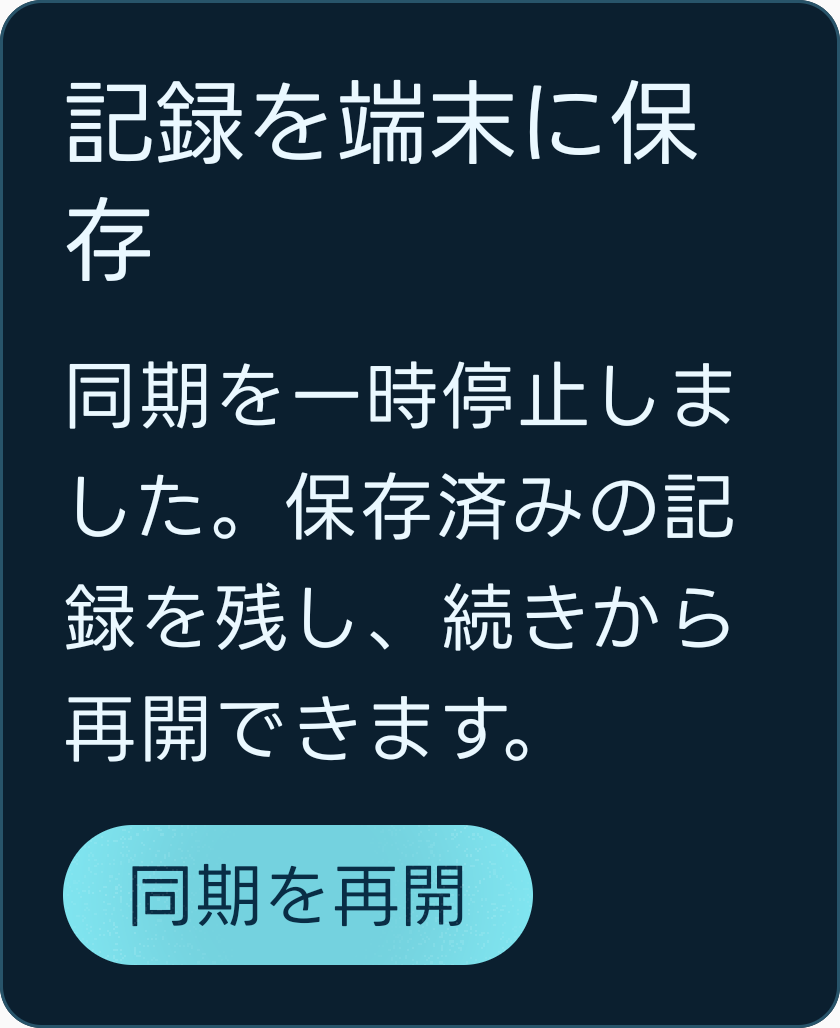
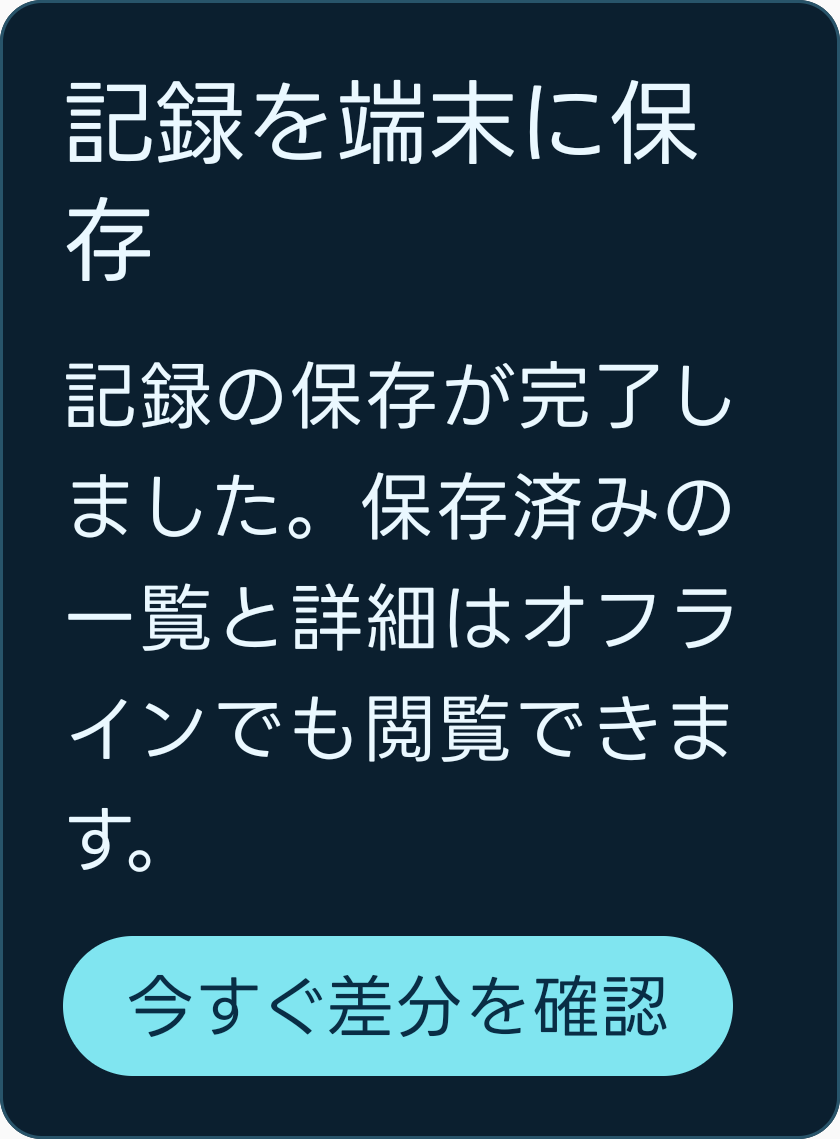
feat(android): render local records first and document automatic sync

diff --git a/apps/records-android/app/src/main/java/dev/pitekusu/shittim/records/BootstrapPresenter.kt b/apps/records-android/app/src/main/java/dev/pitekusu/shittim/records/BootstrapPresenter.kt
@@ -9,13 +9,9 @@ import androidx.compose.runtime.collectAsState
 import androidx.compose.runtime.getValue
 import androidx.compose.runtime.mutableStateOf
 import androidx.compose.runtime.remember
-import androidx.compose.runtime.rememberCoroutineScope
 import androidx.compose.runtime.saveable.rememberSaveable
 import androidx.compose.runtime.setValue
 import androidx.compose.ui.platform.LocalContext
-import androidx.lifecycle.compose.LifecycleStartEffect
-import androidx.paging.Pager
-import androidx.paging.PagingConfig
 import androidx.paging.PagingData
 import com.slack.circuit.runtime.CircuitUiEvent
 import com.slack.circuit.runtime.CircuitUiState
@@ -29,13 +25,7 @@ import dev.pitekusu.shittim.records.auth.MobileSessionModel
 import dev.pitekusu.shittim.records.auth.MobileSessionUser
 import dev.pitekusu.shittim.records.auth.SessionState
 import dev.zacsweers.metro.Inject
-import java.util.concurrent.ConcurrentHashMap
-import kotlin.coroutines.cancellation.CancellationException
-import kotlinx.coroutines.launch
-import kotlinx.coroutines.flow.Flow
-import kotlinx.coroutines.flow.flow
 import kotlinx.coroutines.flow.flowOf
-import kotlinx.coroutines.flow.emitAll
 
 internal enum class ThemeChoice {
   System,
@@ -65,7 +55,6 @@ internal data object BootstrapScreen : Screen {
     data object RefreshRecords : Event
     data object RecordsAuthRequired : Event
     data object StartSync : Event
-    data object PauseSync : Event
     data class OpenRecord(val recordId: String) : Event
     data object CloseRecord : Event
   }
@@ -104,46 +93,19 @@ internal class BootstrapPresenter(
     var listOwner by remember { mutableStateOf<MobileSessionUser?>(null) }
     var lastListRetry by remember { mutableStateOf(-1) }
     var syncState by remember { mutableStateOf<RecordSyncState>(RecordSyncState.Idle) }
-    var syncRequest by remember { mutableStateOf<SessionState.SignedIn?>(null) }
-    val syncScope = rememberCoroutineScope()
-    LaunchedEffect(sessionState) {
-      if (syncRequest != null && syncRequest !== sessionState) {
-        syncRequest = null
-        syncState = RecordSyncState.Paused
-      }
-      if (sessionState !is SessionState.SignedIn) syncState = RecordSyncState.Idle
+    LaunchedEffect(cacheAccountId, signedIn) {
+      if (cacheAccountId != null && signedIn) RecordSyncScheduler.schedule(context)
     }
-    // Lifecycle cancels directly at STOP, even when the stopped UI cannot recompose.
-    LifecycleStartEffect(syncRequest) {
-      val request = syncRequest
-      val job = request?.let {
-        syncScope.launch {
-          try {
-            val completed = session.withAuthorizedToken { token ->
-              records?.synchronize(token, request.cacheAccountId)
-                ?: throw RecordReadException(RecordReadFailure.STORAGE_UNAVAILABLE)
-              true
-            }
-            if (syncRequest === request && session.state.value === request) {
-              syncRequest = null
-              syncState = if (completed == true) RecordSyncState.Completed else RecordSyncState.Paused
-              if (completed == true) listRetry++
-            }
-          } catch (error: CancellationException) { throw error }
-          catch (error: RecordReadException) {
-            if (syncRequest === request && session.state.value === request) {
-              syncRequest = null
-              syncState = RecordSyncState.Failed(error.failure)
-              if (error.failure == RecordReadFailure.AUTH_REQUIRED) session.onForeground()
-            }
+    LaunchedEffect(cacheAccountId) {
+      syncState = RecordSyncState.Idle
+      if (cacheAccountId != null) {
+        var updatedAt = 0L
+        RecordSyncScheduler.states(context).collect { status ->
+          syncState = status.state
+          if (status.updatedAt > updatedAt) { updatedAt = status.updatedAt; listRetry++ }
+          if ((status.state as? RecordSyncState.Failed)?.reason == RecordReadFailure.AUTH_REQUIRED) {
+            session.onForeground()
           }
-        }
-      }
-      onStopOrDispose {
-        job?.cancel()
-        if (request != null && syncRequest === request) {
-          syncRequest = null
-          syncState = RecordSyncState.Paused
         }
       }
     }
@@ -167,45 +129,19 @@ internal class BootstrapPresenter(
           }
           listOwner = currentSession.user
           lastListRetry = listRetry
-          val loadedIds = ConcurrentHashMap.newKeySet<String>()
-          val saved = try { records?.cachedRecords(cacheAccountId).orEmpty() }
+          val saved = try { records?.cachedRecords(cacheAccountId)
+            ?: throw RecordReadException(RecordReadFailure.STORAGE_UNAVAILABLE) }
           catch (error: RecordReadException) {
             if (error.failure == RecordReadFailure.AUTH_REQUIRED) return@LaunchedEffect
-            emptyList()
+            recordList = RecordListState.Error(error.failure)
+            return@LaunchedEffect
           }
-          loadedIds.addAll(saved.map { it.recordId })
-          var source: Flow<PagingData<RecordListEntry>>? = null
-          val pages = Pager(PagingConfig(pageSize = 12, initialLoadSize = 12,
-            prefetchDistance = 3, enablePlaceholders = false)) {
-            RecordPagingSource(
-              loadPage = { cursor ->
-                try {
-                  val page = session.withAuthorizedToken { token ->
-                    records?.recentRecords(token, currentSession.cacheAccountId, cursor)
-                      ?: throw RecordReadException(RecordReadFailure.STORAGE_UNAVAILABLE)
-                  } ?: throw RecordReadException(RecordReadFailure.AUTH_REQUIRED)
-                  if (cursor == null && listOwner === currentSession.user) {
-                    recordList = RecordListState.Ready(checkNotNull(source), loadedIds)
-                  }
-                  page
-                } catch (error: RecordReadException) {
-                  if (cursor != null || error.failure !in setOf(RecordReadFailure.UNAVAILABLE,
-                    RecordReadFailure.STORAGE_UNAVAILABLE)) throw error
-                  val cached = records?.cachedRecords(cacheAccountId)
-                    ?: throw RecordReadException(RecordReadFailure.STORAGE_UNAVAILABLE)
-                  if (listOwner === currentSession.user) recordList = RecordListState.Ready(
-                    checkNotNull(source), loadedIds, saved = true, refreshFailure = error.failure)
-                  RecordListPage(cached, null)
-                }
-              },
-              onLoaded = { entries -> loadedIds.addAll(entries.map { it.recordId }) },
-            )
-          }
-          source = flow {
-            if (saved.isNotEmpty()) emit(PagingData.from(saved))
-            emitAll(pages.flow)
-          }
-          recordList = RecordListState.Ready(source, loadedIds, saved = saved.isNotEmpty())
+          // No online paging/detail refresh on ordinary navigation: the worker alone
+          // reconciles revisions, while the UI reads decrypted local data immediately.
+          recordList = if (saved.isEmpty() && syncState is RecordSyncState.Failed) {
+            RecordListState.Error((syncState as RecordSyncState.Failed).reason)
+          } else if (saved.isEmpty() && syncState != RecordSyncState.Completed) RecordListState.Idle
+          else RecordListState.Ready(flowOf(PagingData.from(saved)), saved.map { it.recordId }.toSet(), saved = true)
         }
         SessionState.Unavailable -> {
           listOwner = null
@@ -223,16 +159,15 @@ internal class BootstrapPresenter(
         SessionState.Checking -> Unit
       }
     }
-    LaunchedEffect(sessionState, selectedRecordId, recordRetry) {
+    LaunchedEffect(sessionState, selectedRecordId, recordRetry, listRetry) {
       record = RecordPreviewState.Idle
       if (cacheAccountId != null && selectedRecordId != null) {
         record = RecordPreviewState.Loading
         record = try {
           val saved = records?.cachedRecord(cacheAccountId, selectedRecordId)
-          if (saved != null) record = RecordPreviewState.Ready(saved, saved = true, updating = signedIn)
-          if (!signedIn) {
-            if (saved != null) RecordPreviewState.Ready(saved, saved = true) else RecordPreviewState.Empty
-          } else try {
+          if (saved != null) RecordPreviewState.Ready(saved, saved = true)
+          else if (!signedIn) RecordPreviewState.Empty
+          else try {
             val result = session.withAuthorizedToken {
               records?.record(it, cacheAccountId, selectedRecordId)
                 ?: throw RecordReadException(RecordReadFailure.STORAGE_UNAVAILABLE)
@@ -244,10 +179,7 @@ internal class BootstrapPresenter(
             }
           } catch (error: RecordReadException) {
             if (error.failure == RecordReadFailure.NOT_FOUND) listRetry++
-            if (saved != null && error.failure in setOf(RecordReadFailure.UNAVAILABLE,
-              RecordReadFailure.STORAGE_UNAVAILABLE)) {
-              RecordPreviewState.Ready(saved, saved = true, refreshFailure = error.failure)
-            } else throw error
+            throw error
           }
         } catch (error: RecordReadException) {
           if (error.failure == RecordReadFailure.AUTH_REQUIRED) session.onForeground()
@@ -272,21 +204,14 @@ internal class BootstrapPresenter(
         BootstrapScreen.Event.Retry -> session.retry()
         BootstrapScreen.Event.RetryRecord -> {
           recordRetry++
-          if (!signedIn) session.retry()
+          if (!signedIn) session.retry() else RecordSyncScheduler.syncNow(context)
         }
         BootstrapScreen.Event.RefreshRecords -> {
           listRetry++
-          if (!signedIn) session.retry()
+          if (!signedIn) session.retry() else RecordSyncScheduler.syncNow(context)
         }
         BootstrapScreen.Event.RecordsAuthRequired -> session.onForeground()
-        BootstrapScreen.Event.StartSync -> if (currentSignedIn != null && syncRequest == null) {
-          syncState = RecordSyncState.Running // Claim synchronously: double taps cannot start two jobs.
-          syncRequest = currentSignedIn
-        }
-        BootstrapScreen.Event.PauseSync -> if (syncRequest != null) {
-          syncRequest = null
-          syncState = RecordSyncState.Paused
-        }
+        BootstrapScreen.Event.StartSync -> if (currentSignedIn != null) RecordSyncScheduler.syncNow(context)
         is BootstrapScreen.Event.OpenRecord -> if (
           event.recordId in ((visibleList as? RecordListState.Ready)?.loadedIds ?: emptySet())
         ) session.openDestination("/records/${event.recordId}")

diff --git a/apps/records-android/app/src/androidTest/java/dev/pitekusu/shittim/records/RecordSyncPanelTest.kt b/apps/records-android/app/src/androidTest/java/dev/pitekusu/shittim/records/RecordSyncPanelTest.kt
@@ -52,16 +52,16 @@ class RecordSyncPanelTest {
     assertEquals(listOf(BootstrapScreen.Event.StartSync), events)
     compose.runOnIdle { state.value = RecordSyncState.Running }
     compose.onNodeWithText(label(R.string.record_sync_start)).assertDoesNotExist()
-    compose.onNodeWithText(label(R.string.record_sync_pause)).performClick()
-    assertEquals(BootstrapScreen.Event.PauseSync, events.last())
+    compose.onNodeWithText(label(R.string.record_sync_pause)).assertDoesNotExist()
     capture("sync-light")
     compose.runOnIdle { dark.value = true }
     compose.onNodeWithText(label(R.string.record_sync_running)).assertIsDisplayed()
     capture("sync-dark")
-    compose.runOnIdle { state.value = RecordSyncState.Paused; largeText.value = true }
-    compose.onNodeWithText(label(R.string.record_sync_paused)).assertIsDisplayed()
-    compose.onNodeWithText(label(R.string.record_sync_resume)).assertIsDisplayed().performClick()
+    compose.runOnIdle { state.value = RecordSyncState.Completed; largeText.value = true }
+    compose.onNodeWithText(label(R.string.record_sync_completed)).assertIsDisplayed()
+    compose.onNodeWithText(label(R.string.record_sync_again)).assertIsDisplayed()
     capture("sync-large-text")
+    compose.onNodeWithText(label(R.string.record_sync_again)).performClick()
     compose.runOnIdle { state.value = RecordSyncState.Failed(RecordReadFailure.STORAGE_UNAVAILABLE) }
     compose.onNodeWithText(label(R.string.record_sync_storage_error)).assertIsDisplayed()
     compose.runOnIdle { state.value = RecordSyncState.Completed }

diff --git a/apps/records-android/app/src/main/java/dev/pitekusu/shittim/records/RecordSyncPanel.kt b/apps/records-android/app/src/main/java/dev/pitekusu/shittim/records/RecordSyncPanel.kt
@@ -8,7 +8,6 @@ import androidx.compose.material3.Button
 import androidx.compose.material3.LinearProgressIndicator
 import androidx.compose.material3.MaterialTheme
 import androidx.compose.material3.OutlinedCard
-import androidx.compose.material3.OutlinedButton
 import androidx.compose.material3.Text
 import androidx.compose.runtime.Composable
 import androidx.compose.ui.Modifier
@@ -49,9 +48,6 @@ internal fun RecordSyncPanel(state: RecordSyncState, onEvent: (BootstrapScreen.E
       if (state == RecordSyncState.Running) {
         // The total is not known until enumeration finishes; never invent a percentage.
         LinearProgressIndicator(Modifier.fillMaxWidth())
-        OutlinedButton(onClick = { onEvent(BootstrapScreen.Event.PauseSync) }) {
-          Text(stringResource(R.string.record_sync_pause))
-        }
       } else {
         Button(onClick = { onEvent(BootstrapScreen.Event.StartSync) }) {
           Text(stringResource(when (state) {

diff --git a/apps/records-android/app/src/main/java/dev/pitekusu/shittim/records/MainActivity.kt b/apps/records-android/app/src/main/java/dev/pitekusu/shittim/records/MainActivity.kt
@@ -26,7 +26,10 @@ class MainActivity : ComponentActivity() {
         MobileSessionModel(MobileAuthClient(), store::read, store::save, store::clear, store::beginLogout,
           store::isLogoutPending, store::completeLogout,
           { accountId -> RecordCacheAccount.activate(applicationContext, accountId) },
-          { RecordCacheAccount.clear(applicationContext) })
+          {
+            RecordSyncScheduler.cancel(applicationContext)
+            RecordCacheAccount.clear(applicationContext)
+          })
       }
     }
   }

diff --git a/apps/records-android/app/src/main/java/dev/pitekusu/shittim/records/RecordListPanel.kt b/apps/records-android/app/src/main/java/dev/pitekusu/shittim/records/RecordListPanel.kt
@@ -162,8 +162,8 @@ private fun RequesterAvatar(name: String, avatar: RecordAvatar) {
       }
     }
     val context = LocalContext.current
-    val request = remember(avatar.url) {
-      avatar.url?.let { ImageRequest.Builder(context).data(it).build() }
+    val request = remember(avatar.bytes, avatar.url) {
+      (avatar.bytes ?: avatar.url)?.let { ImageRequest.Builder(context).data(it).build() }
     }
     if (request != null) {
       AsyncImage(model = request, contentDescription = null,

diff --git a/apps/records-android/README.md b/apps/records-android/README.md
@@ -104,7 +104,7 @@ AVDは`shittim-expressive-preview`を使用する。別の環境ではDevice Man
 
 ### レビュー用スクリーンショット
 
-C31の同期パネル（API 36、架空の画面状態のみ・実データなし）：
+C32追加の自動同期パネル（API 36、架空の画面状態のみ・実データなし）：
 
 - [ライト](screenshots/sync-light.png)
 - [ダーク](screenshots/sync-dark.png)
@@ -277,21 +277,30 @@ C16のログイン画面（API 36、未認証・実データなし）：
 
 ## C31の全記録同期
 
-- 認証済み一覧の「記録を端末に保存」から同期する。全一覧ページをたどり、未保存の詳細だけを1件ずつ暗号化保存する。件数未確定のため推測した割合は表示しない。
-- 「一時停止」でキャンセルし、「同期を再開」で続きから取得する。詳細への移動・認証状態の変更・画面停止／再生成でも中断する。画面起点のCoroutinesと標準Lifecycle Composeを使い、WorkManagerやバックグラウンド継続を追加しない。
+- ログイン・復帰時に自動同期し、「今すぐ差分を確認」でも予約できる。全索引ページをたどり、未保存・更新分だけを1件ずつ暗号化保存する。件数未確定のため推測した割合は表示しない。
+- C31の初期実装は画面起点だったが、C32追加仕様でWorkManagerによるバックグラウンド自動同期へ変更した。詳細への移動・画面停止／再生成では同期を止めない。OSによる停止時は保存済み進捗から再開する。
 - 進捗は既存の暗号化Storeに別用途で保存し、Room schemaや既存本文の形式は変えない。ログアウト・別アカウントへの切替では進捗も消す。token・質問・プロフィールは進捗へ保存しない。
-- 再起動後も次の開始操作で未完了分を続行する。cursor期限切れは1回だけ先頭から列挙し直し、保存済み詳細は再取得しない。通信／保存エラーやキャンセルでは完了扱いにしない。
-- 完了後は「新しい記録も同期する」で再列挙する。C32では全ページ成功後に不在の保存済み記録を削除する。保存済み詳細の内容は開いた際に更新する。
+- 再起動後もWorkManagerから未完了分を続行する。cursor期限切れは1回だけ先頭から列挙し直し、版が一致する保存済み詳細は再取得しない。通信／保存エラーやキャンセルでは完了扱いにしない。
+- 初回保存後は軽量な同期索引を照合し、新規・更新分だけ取得する。C32では全ページ成功後に不在の保存済み記録を削除する。保存済み詳細は開くたびに再取得しない。
 
 ## C32の保存済み表示と更新
 
 API 36・架空データで確認した保存済み詳細パネル：[ライト](screenshots/offline-light.png)／[ダーク](screenshots/offline-dark.png)／[320dp・文字2倍](screenshots/offline-large-text.png)。長い画面はスクロールして閲覧する。
 
 - 前回の認可期限内なら、通信できない場合も保存済み一覧・詳細を閲覧できる。未取得の詳細は未保存と表示する。期限切れはロックし、同一アカウントの再認証で再び閲覧できる。ログアウト・切替は鍵・記録・進捗を消去する。
-- 接続時は保存済み表示を先に出し、最新応答を暗号化保存して更新する。通信・端末保存失敗では既存の保存済み内容を残し、失敗と更新操作を表示する。オフラインのアイコンは代替表示で、古い署名付きURLへ接続しない。
+- 一覧・保存済み詳細はローカルから表示し、同期Workerが更新を反映する。通信・端末保存失敗では既存の内容を残す。依頼者アイコンも暗号化保存し、オフラインでは復号した画像をCoilへ渡す。画像未保存・欠損は代替表示とし、古い署名付きURLへ接続しない。
 - 認証済み404は一覧・詳細を同時に削除する。同期開始時の削除候補を暗号化進捗へ保存し、全ページ成功後だけ不在記録を削除する。失敗・キャンセルでは削除せず、再起動後も再開できる。C31の旧進捗は先頭から安全に再列挙する。既存Room schema・暗号形式は変えない。
-- Play内部テスト：オンラインで「すべての記録を保存」を完了 → 機内モードで再起動し一覧・詳細を確認 → 再接続して更新 → ログアウト後は一覧・詳細が表示されないことを確認する。端末内のデータ削除は不要。
+- Play内部テスト：オンラインで自動保存を完了 → 機内モードで再起動し一覧・詳細・アイコンを確認 → 再接続して差分更新 → ログアウト後は一覧・詳細が表示されないことを確認する。端末内のデータ削除は不要。
 - 架空APIと実Keystore／Roomでページ重複・途中再開・期限切れ・巡回・404・認可喪失を確認する。実機試験とPlay配布は別途行う。
+
+### バックグラウンド自動同期と差分取得
+
+- ログイン・アプリ復帰後に即時同期を予約し、約15分間隔の定期同期を一意なWorkManagerジョブとして保持する。ネットワーク接続が必要で、省電力・Doze・強制停止等により実行は遅れる。サーバーpushによる瞬時反映ではない。「今すぐ差分を確認」で手動予約も可能。
+- `GET /api/v1/records/sync-index`は50件ずつの軽量なID・記録版・アイコン版だけを返す。質問・依頼者名・回答は返さない。全索引を照合するため、古い日付で後から追加された記録や削除も検出できる。本文は未保存・更新版だけ取得し、同じ依頼者の同じ版のアイコンは共有して再取得しない。
+- 同期索引をまだ持たない旧キャッシュは、初回だけ本文を再確認して基準版を作る。その間も保存済み記録は読める。新APIをRecords Releaseで先に配信し、その後Androidを配布する。旧アプリの既存GET契約は維持する。
+- Workerは実行時にKeystoreからtokenを読み、サーバーの本人・期限を確認する。WorkManagerの入力・出力・進捗へtoken、質問、利用者IDを入れない。各保存境界で期限・削除意図・同じtoken・所有者を確認し、所有者を再活性化しない。失効確認時はオフライン認可もロックする。
+- 8分で区切り、途中進捗から再開する。通信失敗は指数backoffで最大3回再試行する。通常の画面停止では継続するが、ログアウト・切替では予約を止め、鍵・暗号文・アイコン・進捗を消す。
+- 実機確認：自動同期の完了後に機内モードで再起動し、アイコンと本文を確認。再接続後の新規記録追加と差分更新、画面を閉じた場合の継続、ログアウト後の非表示を確認する。
 
 ## C16の認証画面
 
